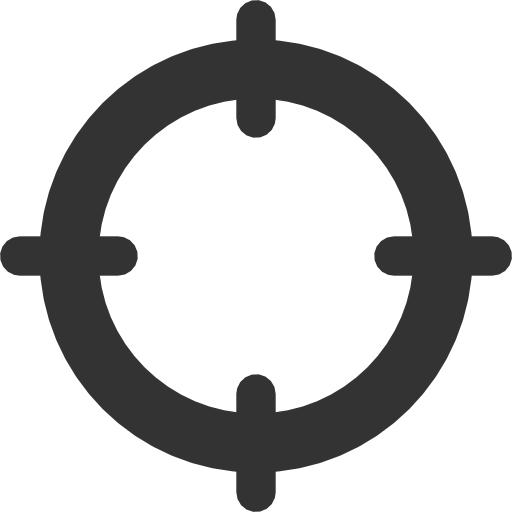
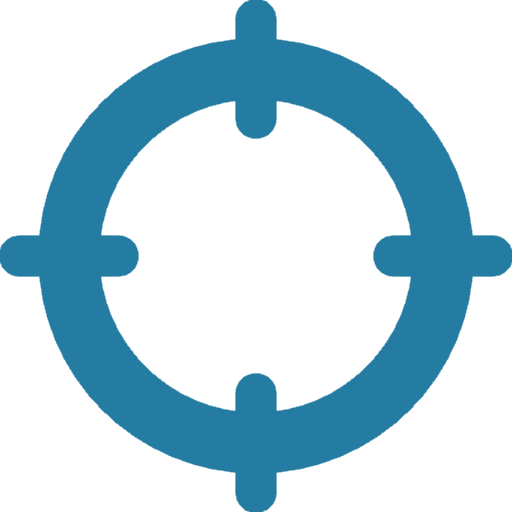
font and color changes not permanent

diff --git a/app/assets/stylesheets/application.scss b/app/assets/stylesheets/application.scss
@@ -37,34 +37,38 @@
  }
  .Logo a {
    color: #080808;
-   text-shadow: -1px 0 #F8F8F8, 0 1px #F8F8F8, 1px 0 #F8F8F8, 0 -1px #F8F8F8;
+   text-shadow: -1px 0 #1CA3EC, 0 1px #1CA3EC, 1px 0 #1CA3EC, 0 -1px #1CA3EC;
    font-size: 125%;
    text-decoration: none;
  }
  .Logo a:hover:not(.active) {
      color: #080808;
-     text-shadow: -1px 0 #F8F8F8, 0 1px #F8F8F8, 1px 0 #F8F8F8, 0 -1px #F8F8F8;
+     text-shadow: -1px 0 #1CA3EC, 0 1px #1CA3EC, 1px 0 #1CA3EC, 0 -1px #1CA3EC;
      font-size: 125%;
      background-color: #FFFFFF;
  }
 */
 
-
+html, body{
+ background-color: #DCF3FF;
+ 
+}
 
  .myNavElementsLeftRight{
    float: right;
-   color: #202020;
-   background-color: #F8F8F8;
+   color: white;
+   background-color: #1CA3EC;
  }
  .myNavElementsLeftRight a {
    padding: 15px 15px 15px 15px;
    display: block;
-   color: #202020;
-   font-family: Optima, Segoe, "Segoe UI", Candara, Calibri, Arial, sans-serif;    text-align: center;
+   color: white;
+   font-family: "Montserrat";    
+   text-align: center;
    text-decoration: none;
    font-size: 15px;
    font-weight: 100;
-   background-color: #F8F8F8;
+   background-color: #1CA3EC;
    border-style: solid;
    border-width: 1px;
    border-color: #FFFFFF;
@@ -72,9 +76,9 @@
    padding: 15px 15px 15px 15px;
  }
  .myNavElementsLeftRight a:hover:not(.active) {
-   color: #202020;
-   font-family: Optima, Segoe, "Segoe UI", Candara, Calibri, Arial, sans-serif;
-   background-color: #F8F8F8;
+   color: white;
+   font-family: "Montserrat";
+   background-color: #1CA3EC;
    border-top: solid #E8E8E8 ;
    border-bottom: solid #E8E8E8 ;
  }
@@ -83,19 +87,20 @@
 
  .myNavElementsRight{
    float: left;
-   color: #202020;
-   background-color: #F8F8F8;
+   color: white;
+   background-color: #1CA3EC;
    max-height: 52px;
  }
  .myNavElementsRight a {
    padding: 15px 15px 15px 15px;
    display: block;
-   color: #202020;
-   font-family: Optima, Segoe, "Segoe UI", Candara, Calibri, Arial, sans-serif;    text-align: center;
+   color: white;
+   font-family: "Montserrat";
+   text-align: center;
    text-decoration: none;
    font-size: 15px;
    font-weight: 100;
-   background-color: #F8F8F8;
+   background-color: #1CA3EC;
    border-style: solid;
    border-width: 1px;
    border-color: #FFFFFF;
@@ -103,9 +108,9 @@
    padding: 15px 15px 15px 15px;
  }
  .myNavElementsRight a:hover:not(.active) {
-   color: #202020;
-   font-family: Optima, Segoe, "Segoe UI", Candara, Calibri, Arial, sans-serif;
-   background-color: #F8F8F8;
+   color: white;
+   font-family: "Montserrat";
+   background-color: #1CA3EC;
    border-top: solid #E8E8E8 ;
    border-bottom: solid #E8E8E8 ;
  }
@@ -116,7 +121,7 @@
    list-style-type: none;
    padding: 0px 0px 52px 0px;
    margin: 0px 0px 0px 0px;
-   background-color: #F8F8F8 	;
+   background-color: #1CA3EC 	;
  }
 
 
@@ -124,39 +129,40 @@
  .TopRight{
    list-style-type: none;
    margin: -20px 0px 20px 0px;
-   background-color: #FFFFFF;
+   // background-color: #1CA3EC;
  }
 
 
  .TopRightElements{
    float: right;
-   color: #202020;
+   color: black;
  }
 
 
  .TopRightElements a {
      padding: 15px 15px 15px 15px;
      display: block;
-     color: #202020;
-     text-shadow: -1px 0 #FFFFFF, 0 1px #FFFFFF, 1px 0 #FFFFFF, 0 -1px #FFFFFF;
-     font-family: Optima, Segoe, "Segoe UI", Candara, Calibri, Arial, sans-serif;    text-align: center;
+     color: black;
+     // text-shadow: -1px 0 #FFFFFF, 0 1px #FFFFFF, 1px 0 #FFFFFF, 0 -1px #FFFFFF;
+     font-family: "Montserrat";
+     text-align: center;
      text-decoration: none;
      font-size: 15px;
      font-weight: 100;
-     background-color: #FFFFFF;
-     border-style: solid;
-     border-width: 1px;
-     border-color: #FFFFFF;
+     // background-color: #74CCF4;
+     // border-style: solid;
+     // border-width: 1px;
+     // border-color: black;
      border-right: solid #686868 ;
-     background-color: #FFFFFF;
+     // background-color: #1CA3EC;
      line-height: 2px;
      font-weight: 100;
  }
  .TopRightElements a:hover:not(.active) {
      color: #808080;
-     text-shadow: -1px 0 #FFFFFF, 0 1px #FFFFFF, 1px 0 #FFFFFF, 0 -1px #FFFFFF;
-     font-family: Optima, Segoe, "Segoe UI", Candara, Calibri, Arial, sans-serif;
-     background-color: #FFFFFF;
+     // text-shadow: -1px 0 #FFFFFF, 0 1px #FFFFFF, 1px 0 #FFFFFF, 0 -1px #FFFFFF;
+     font-family: "Montserrat";
+     // background-color: #1CA3EC;
  }
 
 
@@ -166,28 +172,28 @@
 
  .TopRightElementsSpecial{
    float: right;
-   color: #202020;
+   color: black;
  }
 
  .TopRightElementsSpecial a {
      padding: 15px 15px 15px 15px;
      display: block;
-     color: #202020;
-     text-shadow: -1px 0 #FFFFFF, 0 1px #FFFFFF, 1px 0 #FFFFFF, 0 -1px #FFFFFF;
-     font-family: Optima, Segoe, "Segoe UI", Candara, Calibri, Arial, sans-serif;    text-align: center;
+     color: black;
+     // text-shadow: -1px 0 #FFFFFF, 0 1px #FFFFFF, 1px 0 #FFFFFF, 0 -1px #FFFFFF;
+     font-family: "Montserrat";
+     text-align: center;
      text-decoration: none;
      font-size: 15px;
      font-weight: 100;
-     background-color: #FFFFFF;
-     background-color: #FFFFFF;
+     // background-color: #1CA3EC;
      line-height: 2px;
      font-weight: 100;
  }
  .TopRightElementsSpecial a:hover:not(.active) {
      color: #808080;
-     text-shadow: -1px 0 #FFFFFF, 0 1px #FFFFFF, 1px 0 #FFFFFF, 0 -1px #FFFFFF;
-     font-family: Optima, Segoe, "Segoe UI", Candara, Calibri, Arial, sans-serif;
-     background-color: #FFFFFF;
+     // text-shadow: -1px 0 #FFFFFF, 0 1px #FFFFFF, 1px 0 #FFFFFF, 0 -1px #FFFFFF;
+     font-family: "Montserrat";;
+     // background-color: #1CA3EC;
  }
 
 
@@ -234,20 +240,22 @@
 
 
   .table{ border-collapse:separate;
-            border:solid  #eee 2px;
+            border:solid   #EEEEEE 2px;
             /* Safari 3-4, iOS 1-3.2, Android 1.6- */
             -webkit-border-radius: 13px;
             /* Firefox 1-3.6 */
             -moz-border-radius:   13px;
             /* Opera 10.5, IE 9, Safari 5, Chrome, Firefox 4, iOS 4, Android 2.1+ */
             border-radius: 13px;
+            background-color: white;
+            color: black;
           }
 
 
 
   .table>thead>tr>th, .table>thead>tr>td, .table>tbody>tr>th, .table>tbody>tr>td, .table>tfoot>tr>th, .table>tfoot>tr>td
-    {border:0px solid #fff;
-      border-bottom: 1px solid #eee}
+    {border:0px solid black;
+      border-bottom: .5px solid  #EEEEEE}
 
 
 .search-img {

diff --git a/app/assets/stylesheets/main.scss b/app/assets/stylesheets/main.scss
@@ -6,13 +6,13 @@
 #navbox-container {
   margin-left: auto;
 	margin-right: auto;
-  background-color: rgba(0, 0, 0, 0.3);
+  background-color: #74CCF4;
   display: flex;
 }
 
 .navbox {
   border-style: solid;
-  border-color: #f4f5f0;
+  border-color: #85DAF7;
   border-width: 2px;
   display: inline-block;
   flex: 1;
@@ -22,17 +22,17 @@
 }
 
 .navbox h2 {
-  color: black;
-  text-shadow: 2px 2px #f4f5f0;
+  color: white;
+  // text-shadow: 2px 2px #f4f5f0;
   margin: none;
-  font-family: play;
+  font-family: 'Montserrat';
 }
 
 .navbox p {
-  color: black;
+  color: white;
   margin: none;
-  font-family: play;
-  text-shadow: 1px 1px 4px #f4f5f0;
+  font-family: 'Montserrat';
+  // text-shadow: 1px 1px 4px #f4f5f0;
 }
 
 /* Begin about us page */

diff --git a/app/assets/stylesheets/scaffolds.scss b/app/assets/stylesheets/scaffolds.scss
@@ -10,6 +10,7 @@ html, body, div, a {
   text-shadow: none;
   font-family: Optima, Segoe, "Segoe UI", Candara, Calibri, Arial, sans-serif;
   font-size: 18px;
+  //background-color:#DCF3FF;
 }
 
 body {
@@ -24,12 +25,20 @@ h1, h2 {
   font-family: Optima, Segoe, "Segoe UI", Candara, Calibri, Arial, sans-serif;    text-align: center;
 }
 
+h3 {
+  text-decoration: none;
+  text-shadow: none;
+  font-family: "Montserrat";    
+  text-align: center;
+  color: white
+}
+
 /* Motto */
 #motto {
 	width:100%;
 	padding: 0.3rem;
 	margin: auto;
-	background-color: rgba(0, 0, 0, 0.8);
+	background-color: #1CA3EC;
 	text-align: center;
 }
 

diff --git a/app/assets/javascripts/application.js b/app/assets/javascripts/application.js
@@ -145,6 +145,7 @@ function setGeoCookie(position) {
             // alert("error");
         });
     });
+    
 	
 
 
